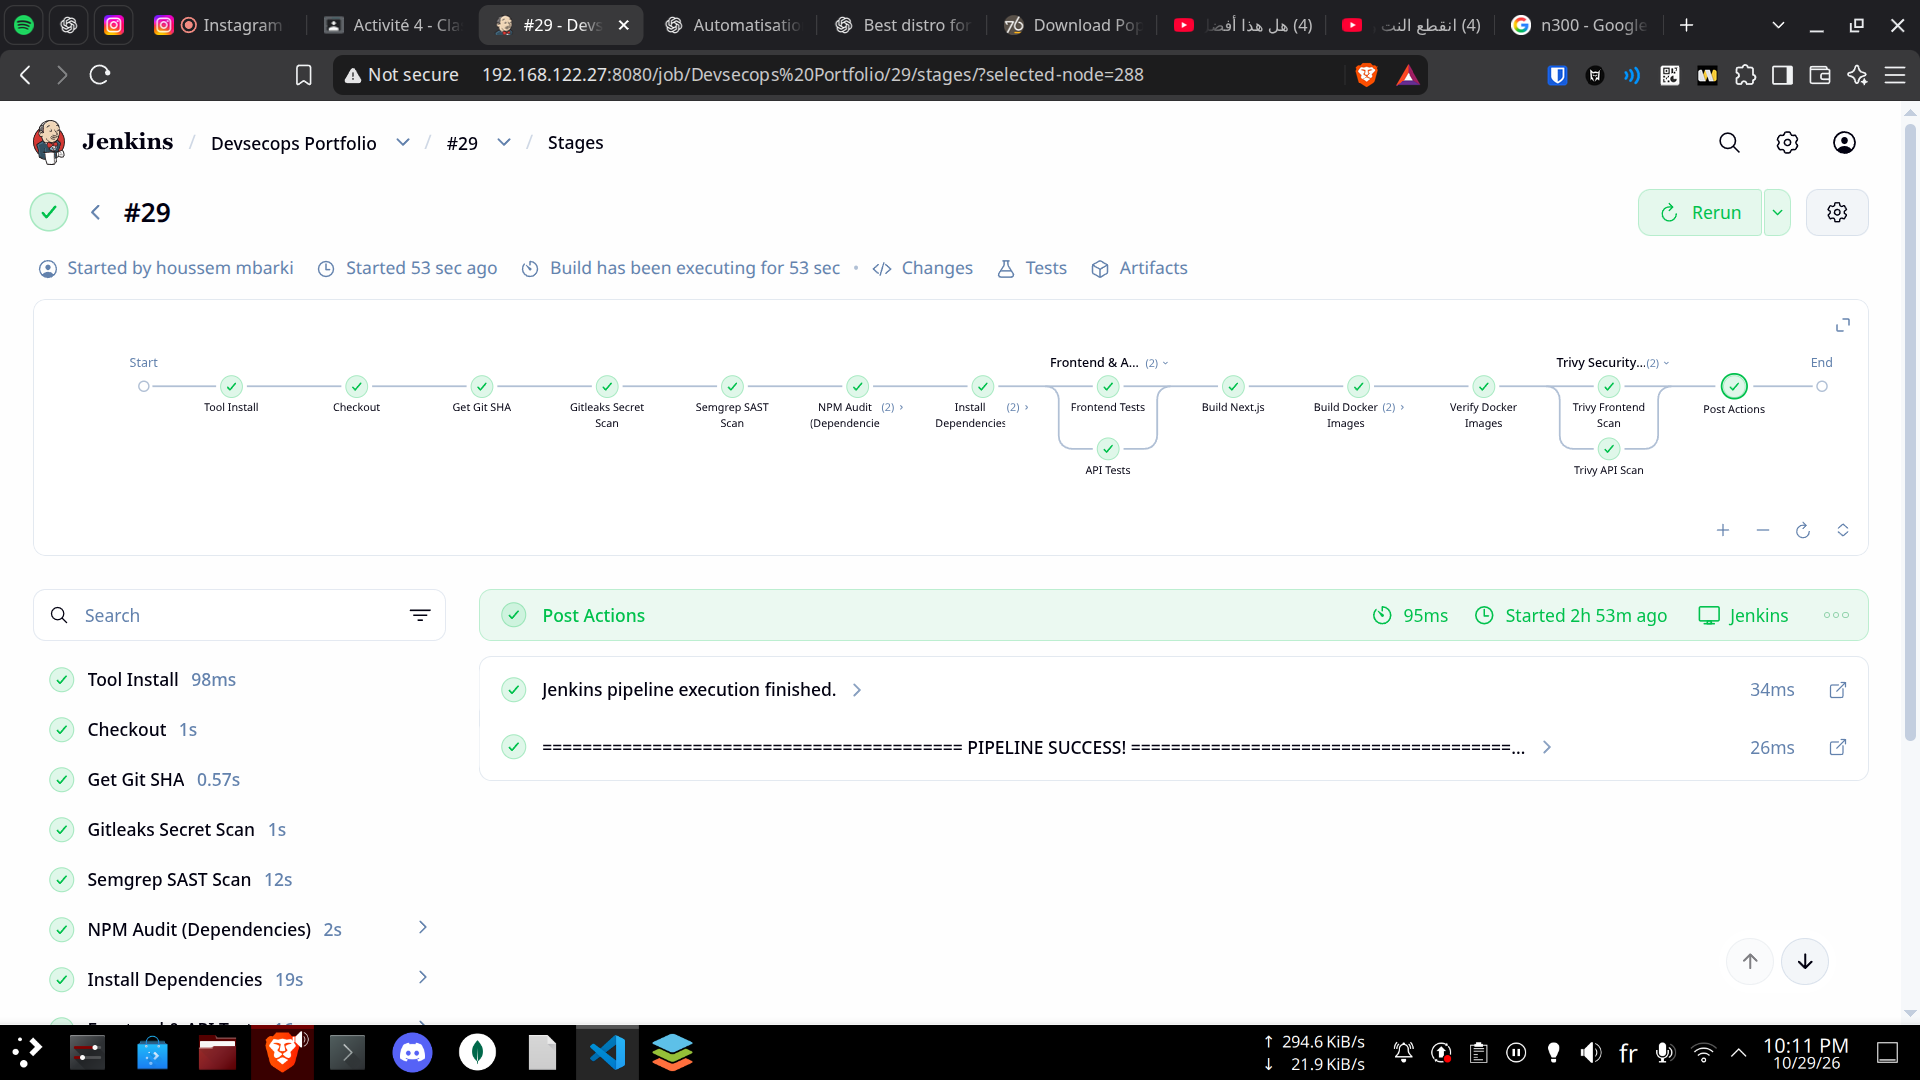
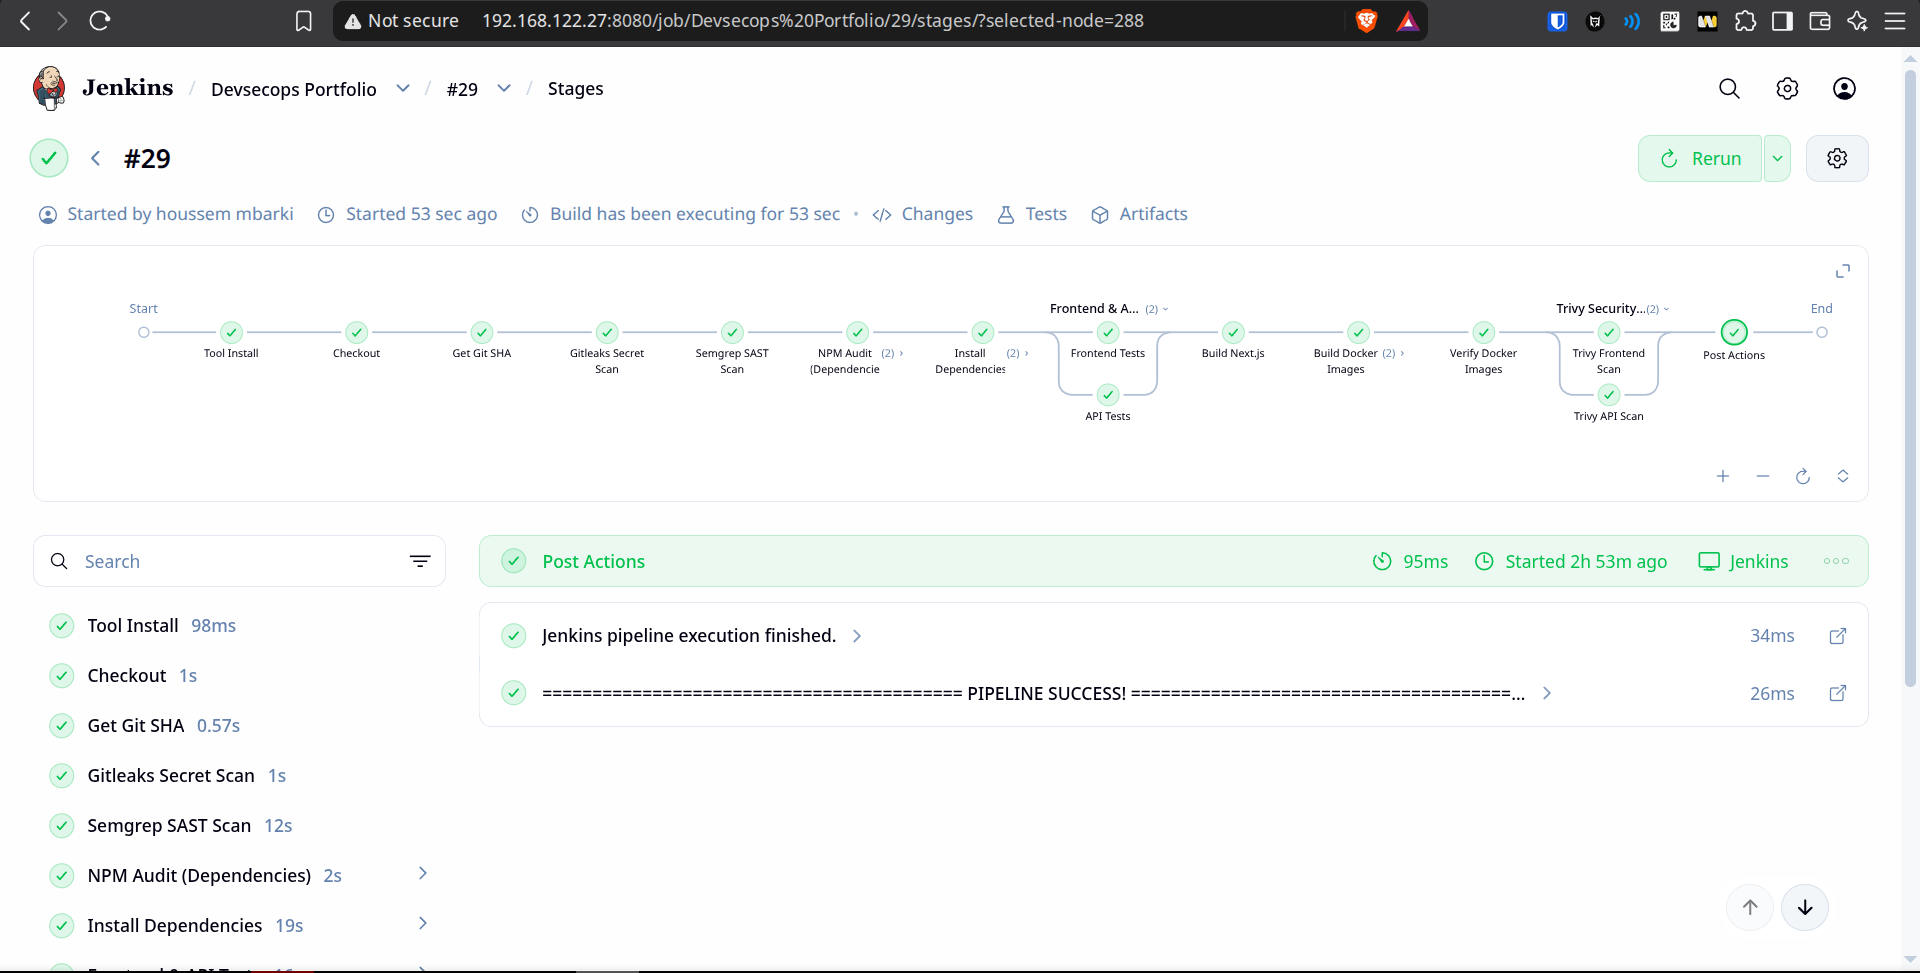
fix: update .gitignore to allow .env file and remove commented lines; adjust README for clarity

diff --git a/README.md b/README.md
@@ -1052,19 +1052,11 @@ Configurer le pipeline CI/CD pour qu'il échoue lorsqu'un secret est détecté p
 - **npm audit :** vérifie les vulnérabilités des dépendances.
 - **Semgrep :** recherche des problèmes de sécurité dans le code source.
 
-#### Résultat 1 — Pipeline réussi
+#### Résultat — Pipeline réussi
 
 Le pipeline termine toutes les étapes avec le statut `SUCCESS`.
 
 ![Pipeline Jenkins réussi](images/54-pipeline-success.png)
-
-#### Résultat 2 — Pipeline volontairement échoué
-
-Un test contrôlé permet de vérifier que le pipeline bloque l'exécution lorsqu'un secret fictif est détecté par Gitleaks.
-
-Le résultat attendu est le statut `FAILURE` au niveau du stage `Gitleaks Secret Scan`.
-
-![Pipeline Jenkins échoué après détection d'un secret](images/55-pipeline-failure-secret.png)
 
 #### Conclusion
 
